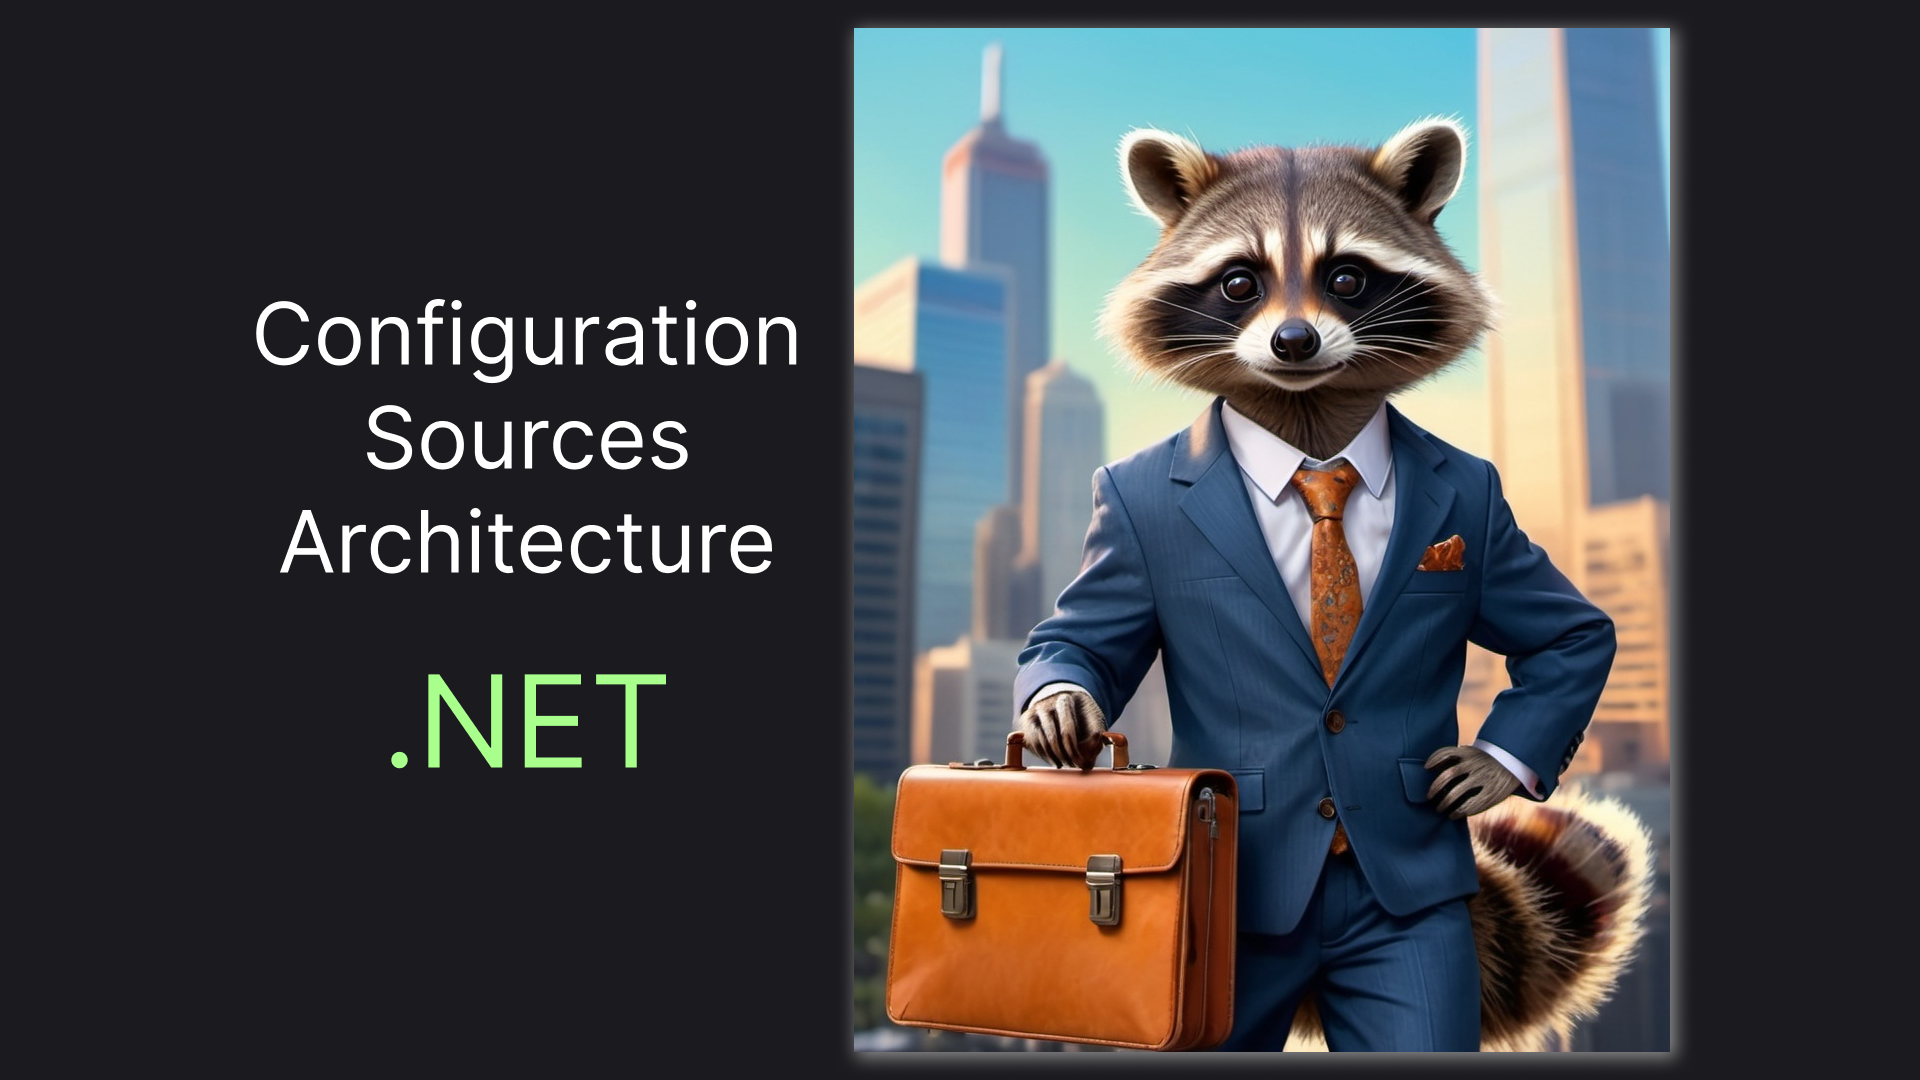
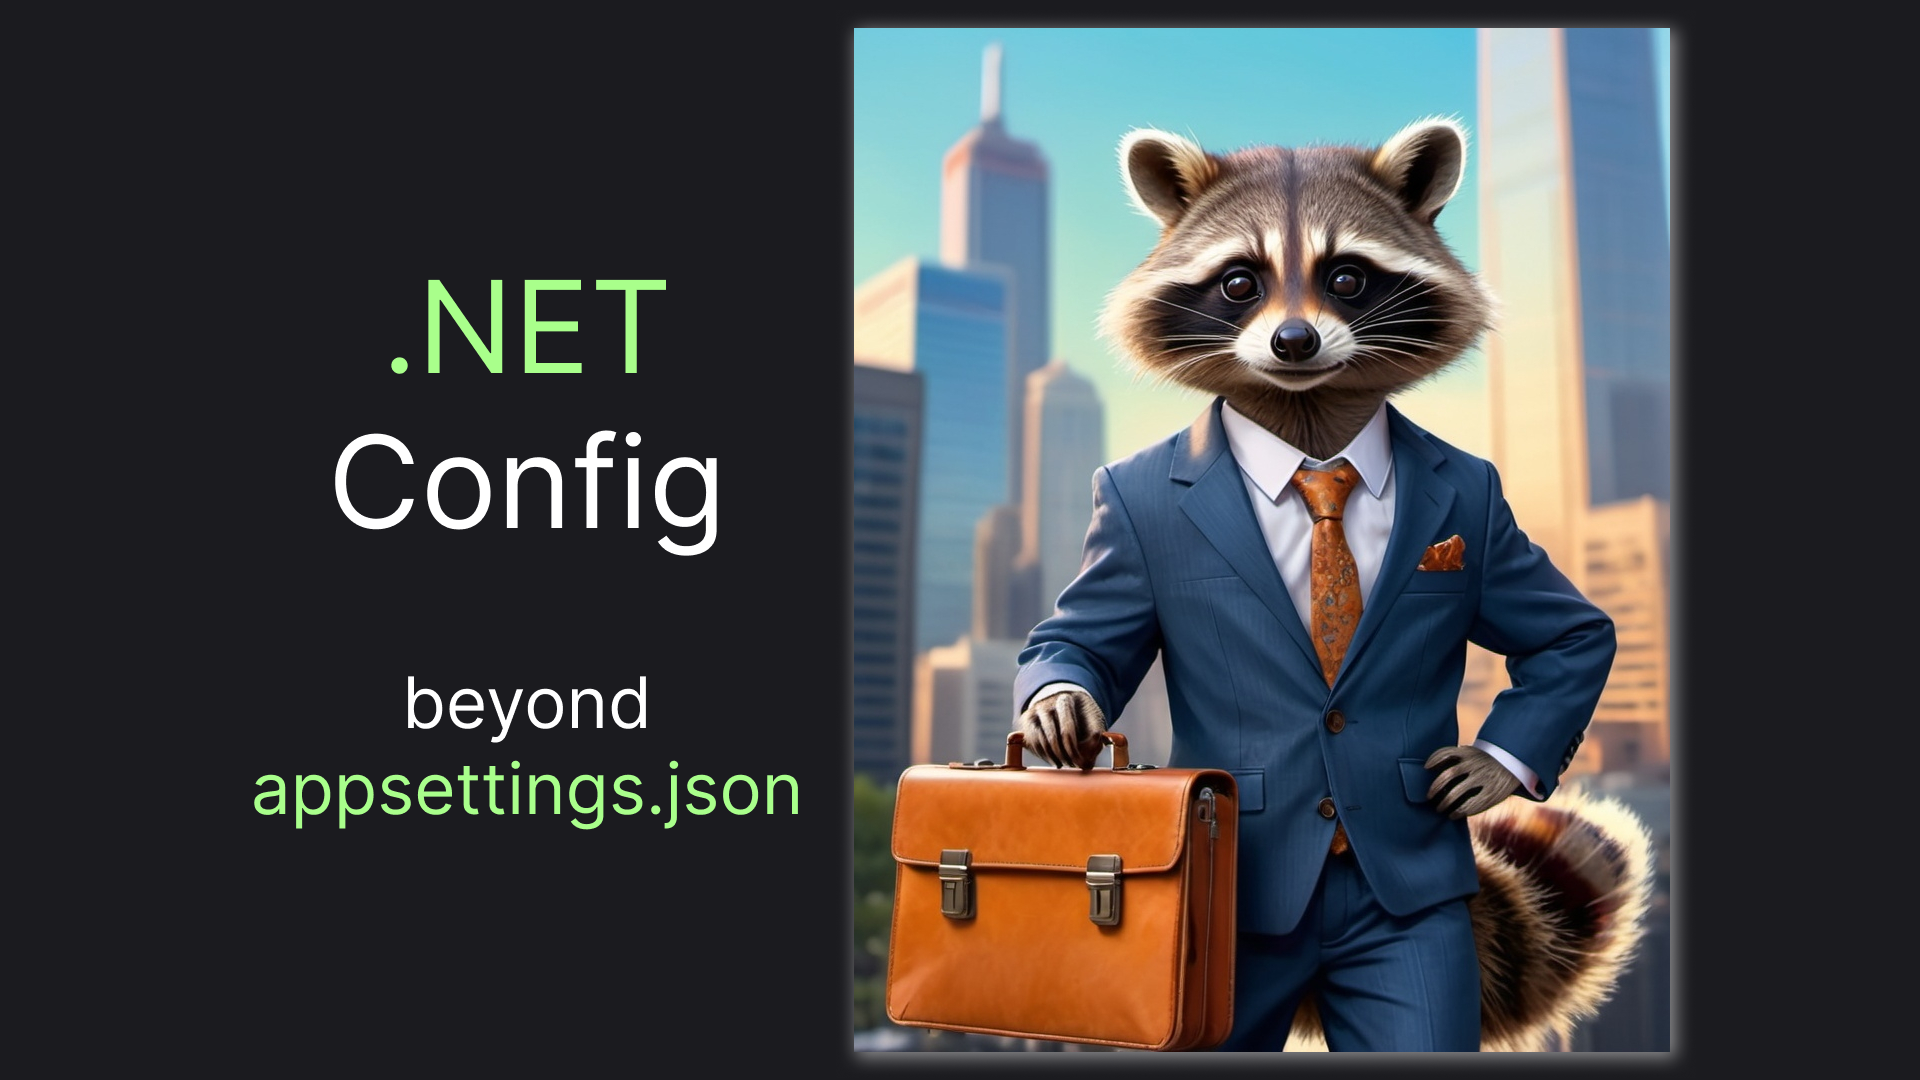
updated thumb

Changed region(s): [[0.125, 0.2444, 0.4375, 0.55], [0.125, 0.6111, 0.4062, 0.7639]]

diff --git a/dotnet-config-sources/index.md b/dotnet-config-sources/index.md
@@ -174,4 +174,4 @@ The main argument for using `environmentVariables` over `commandLineArgs` (which
 
 ## What's Next?
 
-If `appsettings.json` bears so many problems and we have a valid alternative to it, is it even needed? It is! I'll describe why in the next article. For now ... claps are appreciated! 👏
+If `appsettings.json` bears so many problems and we have a valid alternative to it, is it even needed? It is! I'll describe why in the next article. For now, you can check out the example source code on the [github]().
